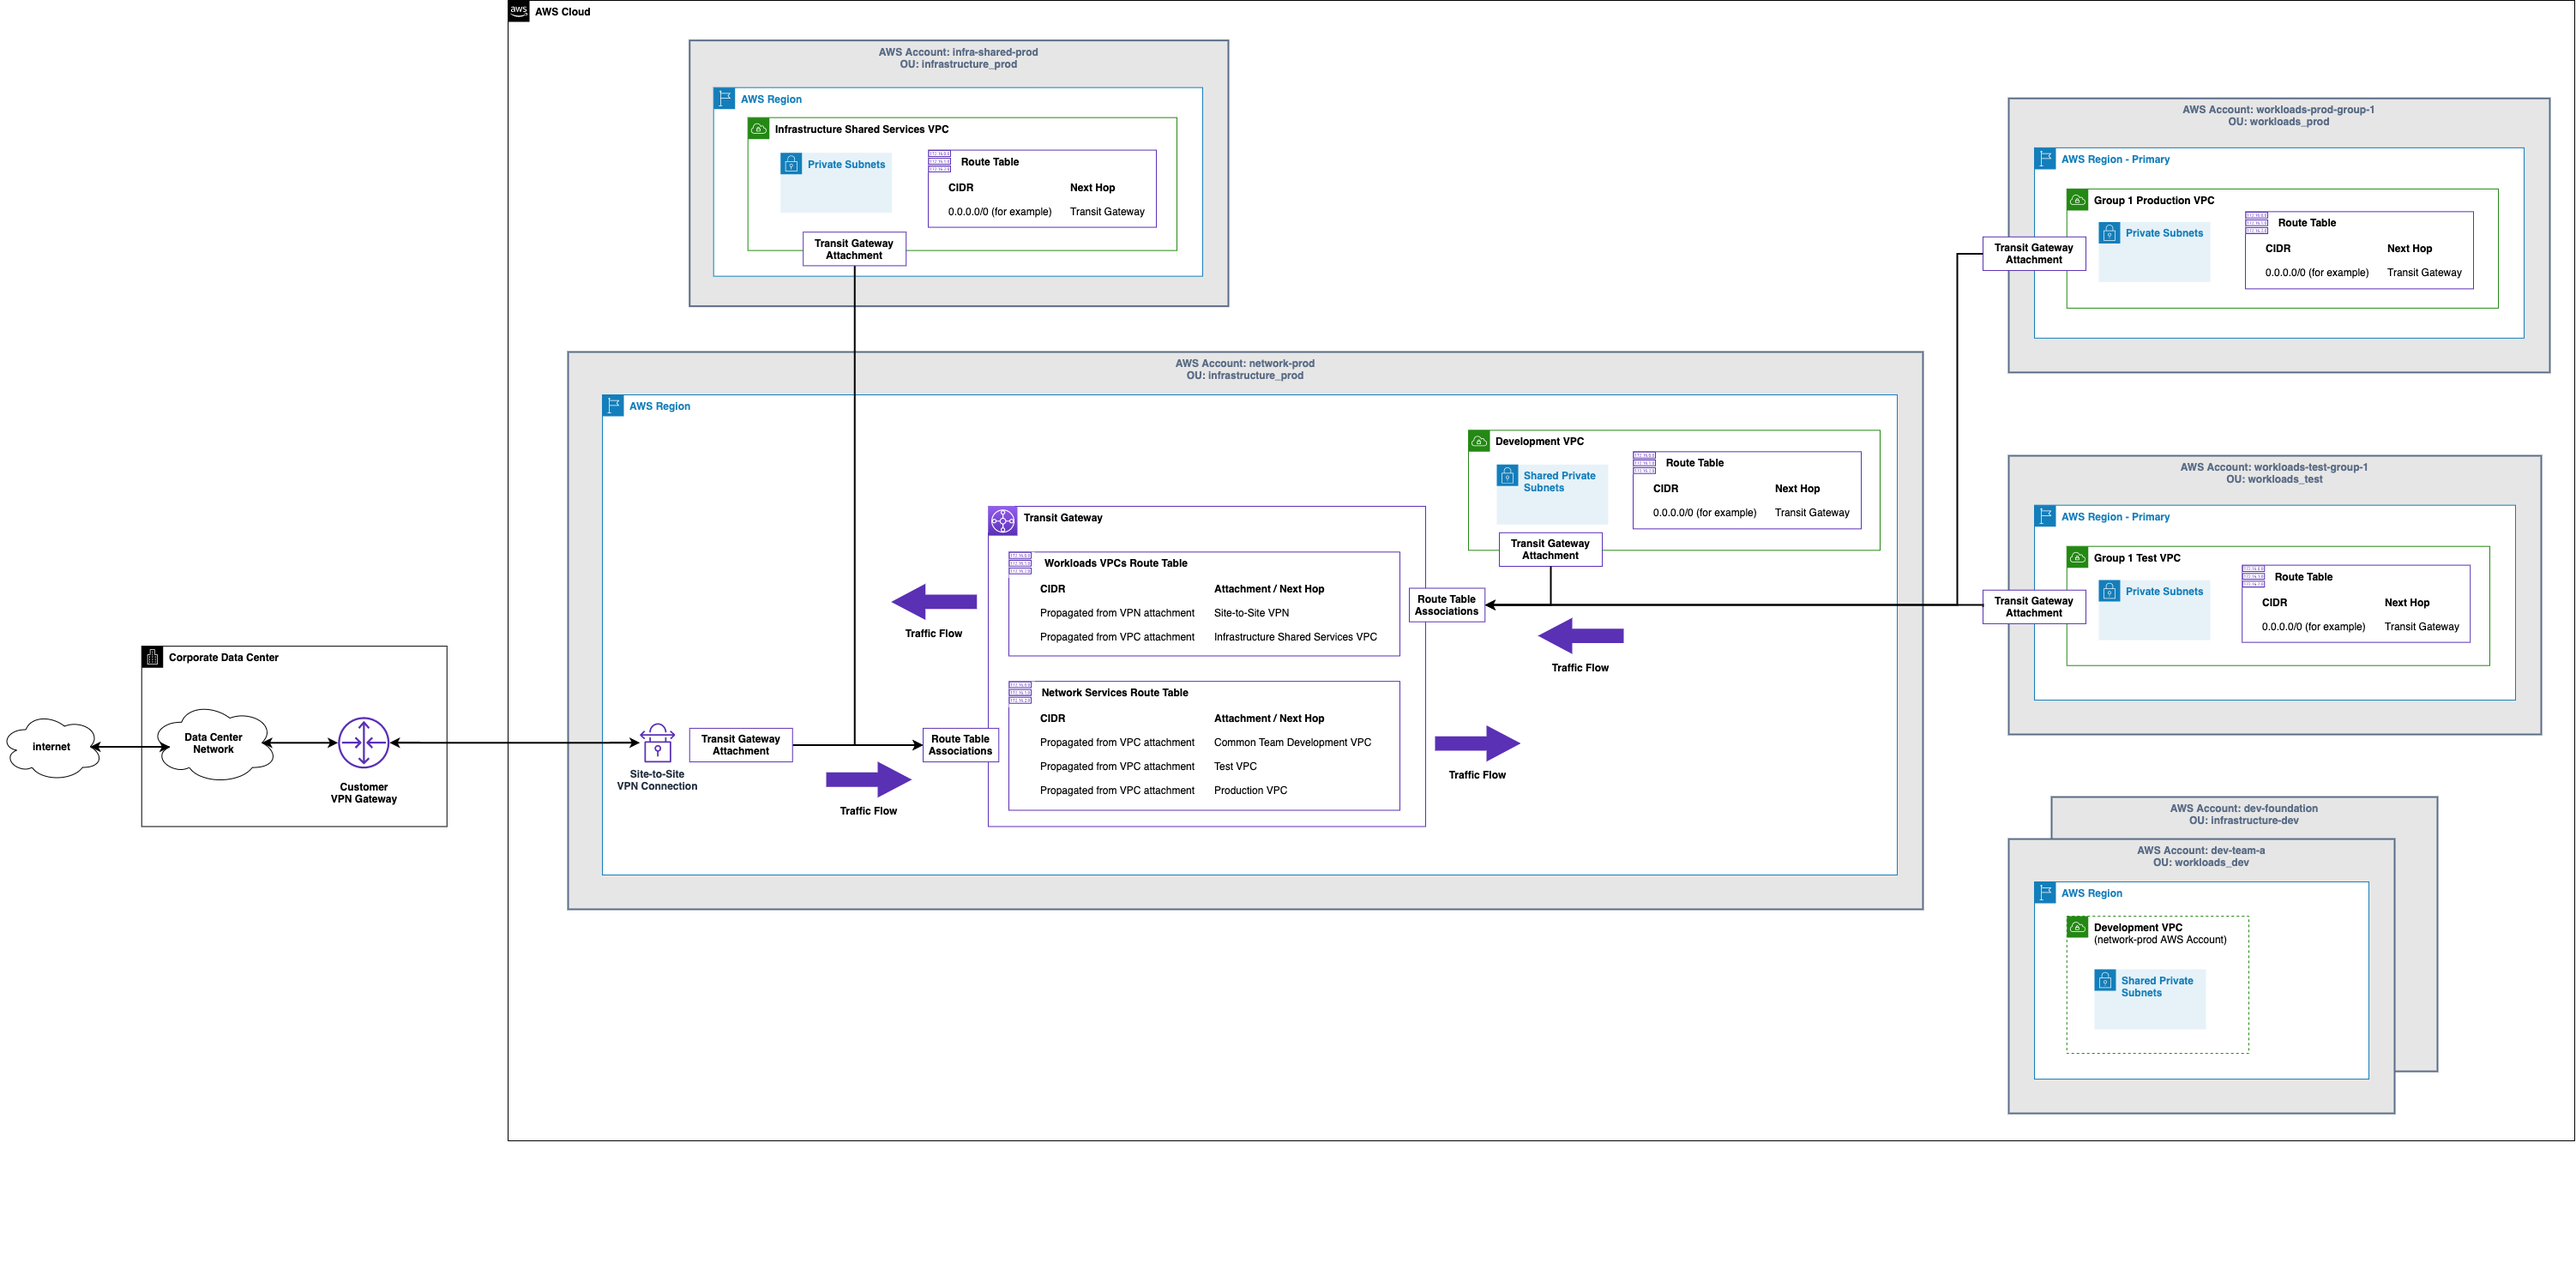
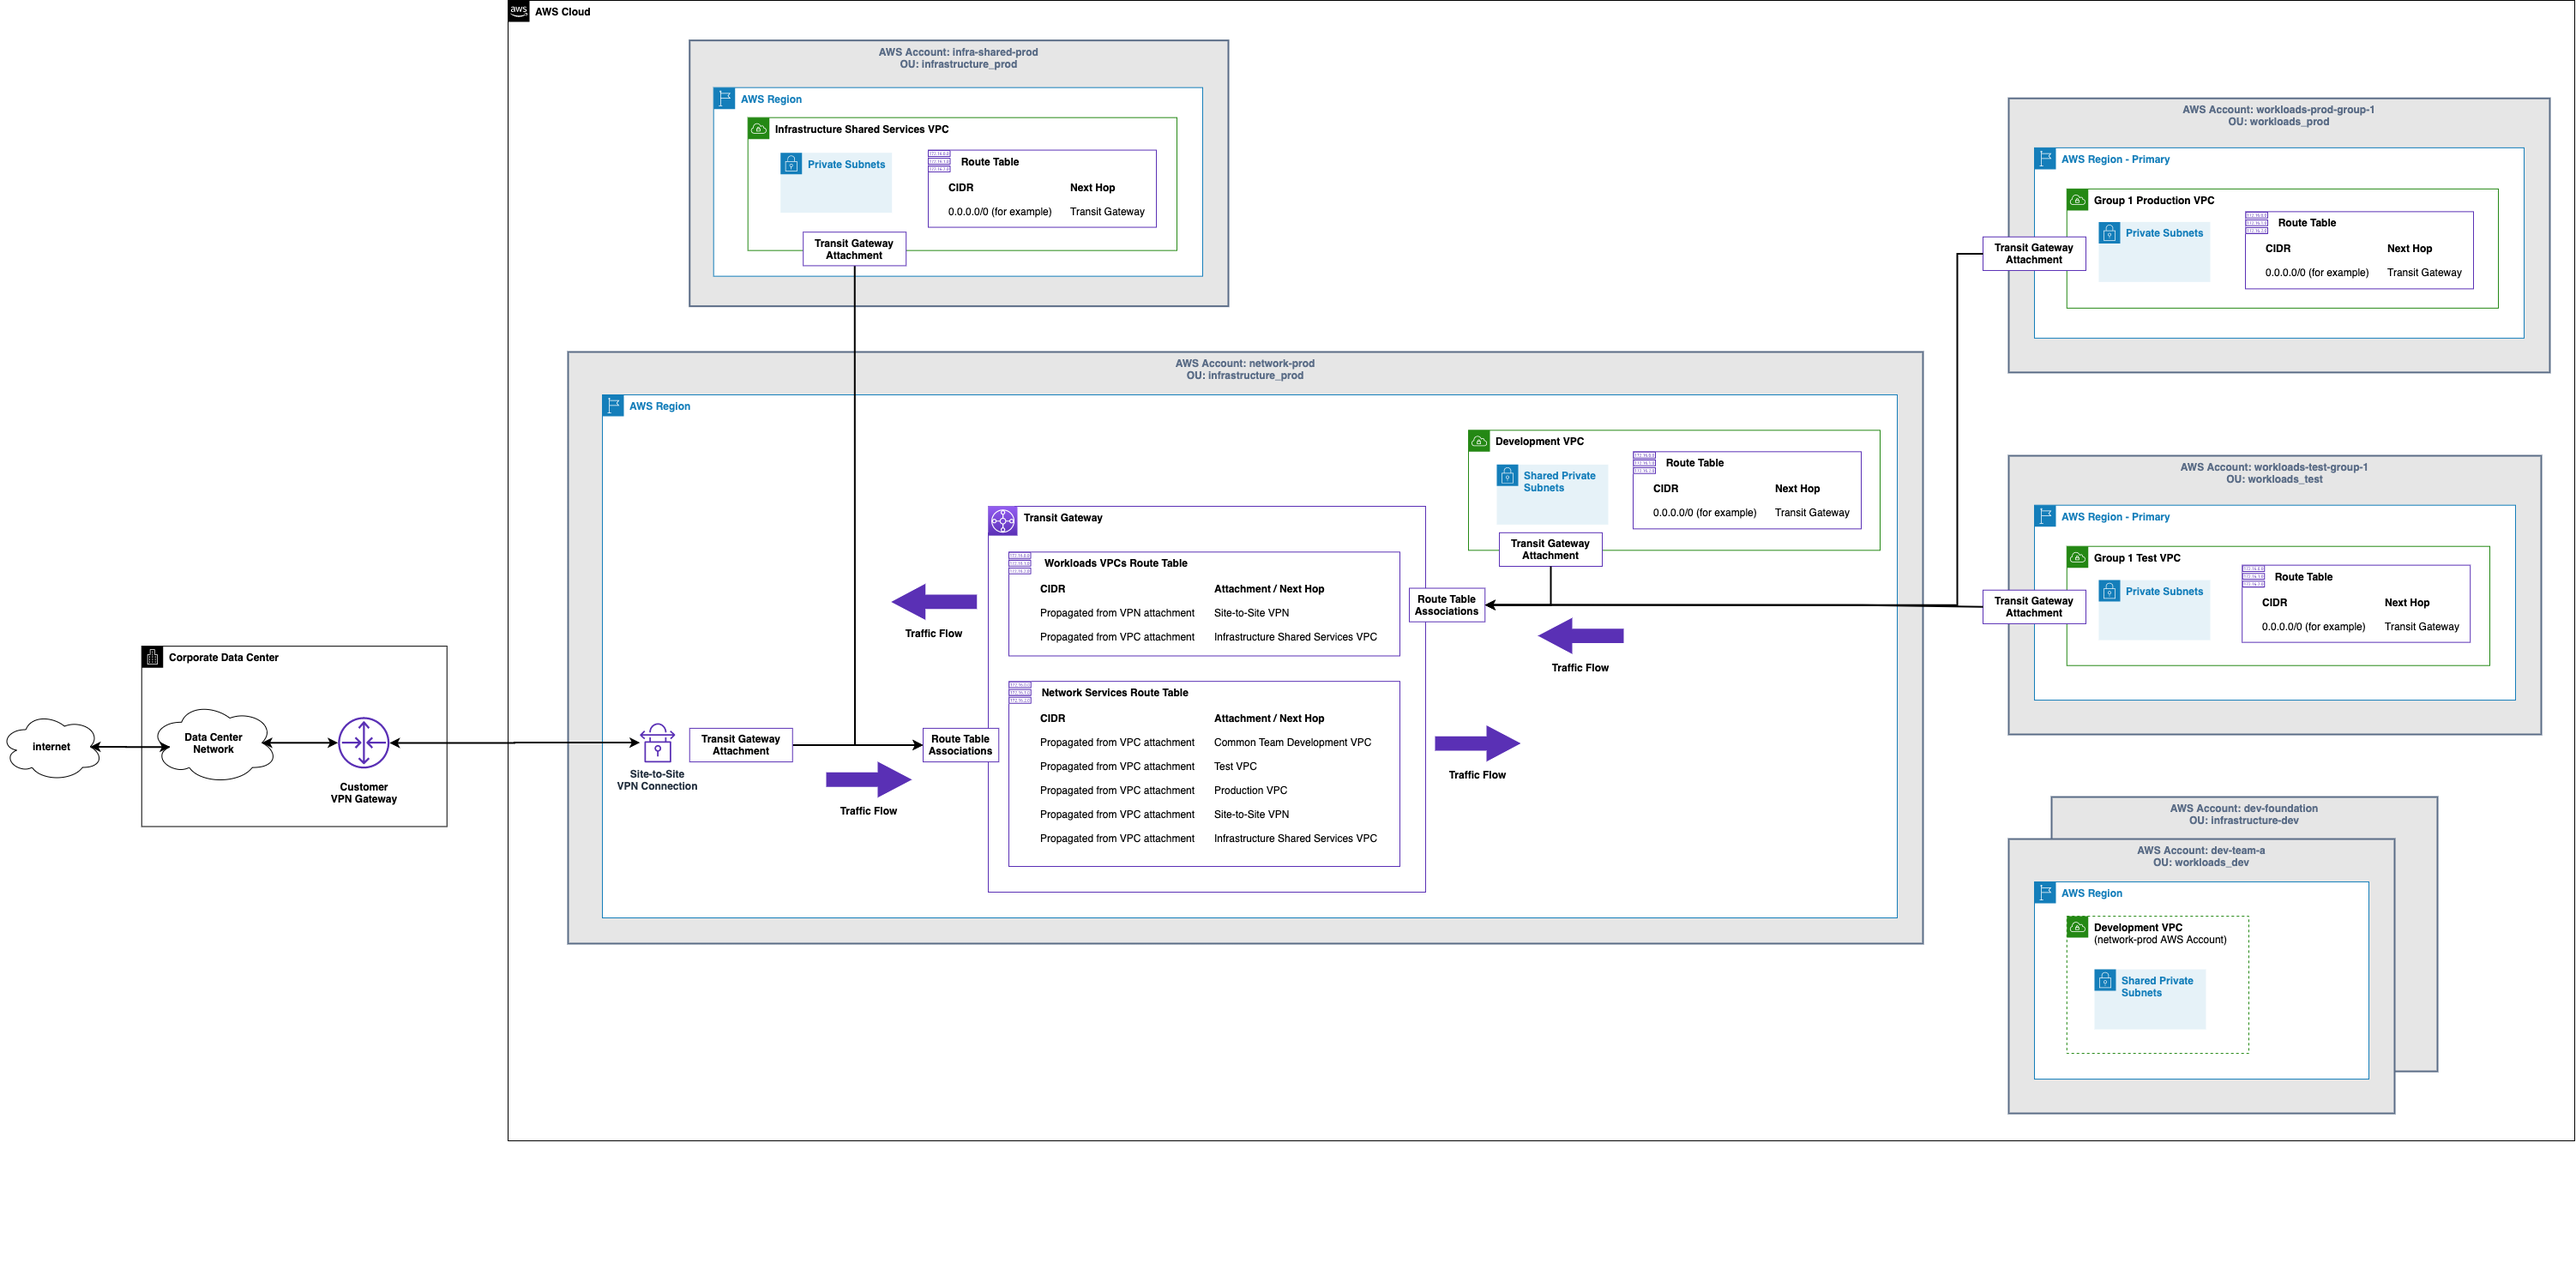
fixed gap in network services tgw route table

Changed region(s): [[0.2167, 0.6187, 0.774, 0.7424]]

diff --git a/content/02-dev-fast-follow/01-hybrid-networking/04-set-up-site-to-site-vpn/01-set-up-site-to-site-vpn-review-config.md b/content/02-dev-fast-follow/01-hybrid-networking/04-set-up-site-to-site-vpn/01-set-up-site-to-site-vpn-review-config.md
@@ -27,6 +27,10 @@ Once you create test and production workloads AWS accounts and VPCs, you'll also
 
 The overall configuration in this guide is patterned after the example [Isolated VPCs with shared services](https://docs.aws.amazon.com/vpc/latest/tgw/transit-gateway-isolated-shared.html).
 
+{{% notice tip %}}
+**Detailed traffic flow examples:** If you'd like to walk through detailed traffic flow examples when using AWS Tranist Gateway, see [Field Notes: Working with Route Tables in AWS Transit Gateway](https://aws.amazon.com/blogs/architecture/field-notes-working-with-route-tables-in-aws-transit-gateway/).
+{{% /notice %}}
+
 [![Site-to-Site VPN with Transit Gateway](/images/02-dev-fast-follow/01-hybrid-networking/site-to-site-vpn-tgw-route-tables.png?height=500px)](/images/02-dev-fast-follow/01-hybrid-networking/site-to-site-vpn-tgw-route-tables.png)
 
 {{% notice tip %}}
